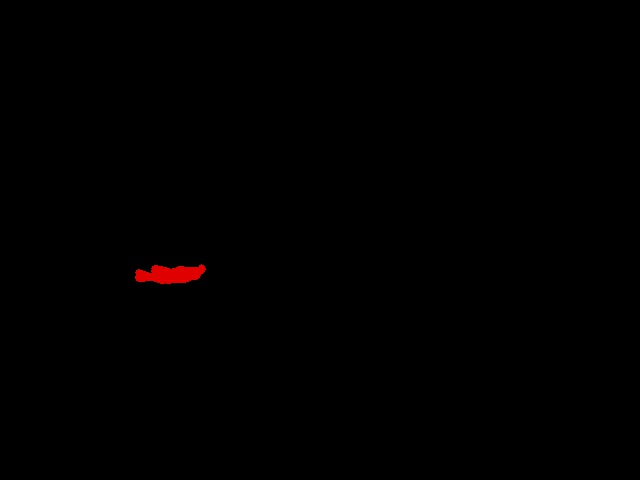
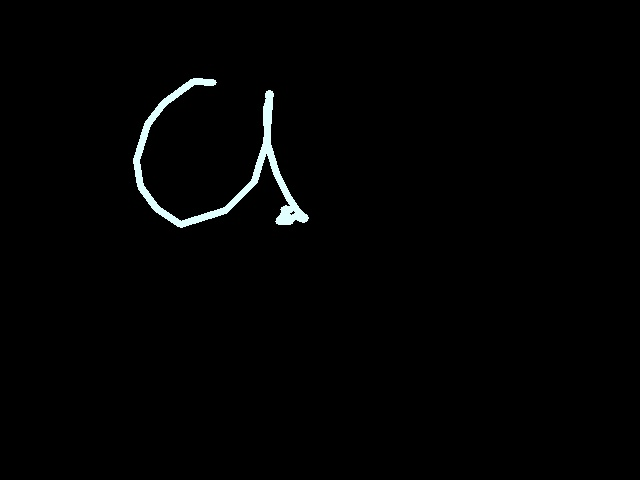
Handwriting recognition

diff --git a/main.py b/main.py
@@ -2,18 +2,47 @@ import numpy as np
 import cv2
 import argparse
 import time
+import pytesseract
 import threading
 from collections import deque
+from PIL import Image
+
+pytesseract.pytesseract.tesseract_cmd = 'C:/Program Files (x86)/Tesseract-OCR/tesseract'
+tessdata_dir_config = '--tessdata-dir "C:/Program Files (x86)/Tesseract-OCR/tessdata" --psm 10  --oem 2 '
+kernel = np.ones((1, 1), np.uint8)
+busy = False
+characters = "abcdefghijklmnopqrstuvwxyzABCDEFGHIJKLMNOPQRSTUVWXYZ0123456789"
+handwriting = cv2.imread("media/temp.jpg")
 
 def read_handwriting():
-    #media/tempjpg
+    busy = False
+    while True:
+        output = ''
+        if busy == False:
+            busy = True
+            handwriting = cv2.imread("media/temp.jpg")
+            busy = False
 
-lastTime = time.time()
+        handwriting = cv2.cvtColor(handwriting, cv2.COLOR_BGR2GRAY)
+        handwriting = cv2.dilate(handwriting, kernel, iterations=1)
+        handwriting = cv2.erode(handwriting, kernel, iterations=1)
+        arr = Image.fromarray(handwriting)
+        result = pytesseract.image_to_string(arr, config = tessdata_dir_config)
+        for i in range(len(result) - 1):
+            for c in range(len(characters)):
+                if(result[i] == characters[c]):
+                    output += result[i]
+                    break;
+        print(output)
+        time.sleep(0.5)
+
+t = threading.Thread(target=read_handwriting)
+t.daemon = True
+t.start()
 
 cap = cv2.VideoCapture(0)
 
-pts = deque(maxlen = 64)
-
+pts = deque(maxlen = 50)
 lower = (110,50,50)
 upper = (130,255,255)
 
@@ -22,6 +51,7 @@ while True:
     img = cv2.flip(img, 1)
 
     writing = np.zeros(( int( cap.get(4) ), int (cap.get(3) ), 3), np.uint8);
+    writing[:,:] = (0,0,0)
 
     hsv=cv2.cvtColor(img, cv2.COLOR_BGR2HSV) #Convert to HSV
     kernel = np.ones((5,5), np.uint8)
@@ -50,16 +80,13 @@ while True:
         if pts[i-1]is None or pts[i] is None:
             continue
         width = int(np.sqrt(len(pts) / float(i + 1)) * 2.5)
-        cv2.line(img, pts[i-1],pts[i],(0,0,225), width)
-        cv2.line(writing, pts[i-1],pts[i],(0,0,225), 5)
+        cv2.line(img, pts[i-1],pts[i],(0, 0, 225), width)
+        cv2.line(writing, pts[i-1],pts[i],(255, 255, 225), 5)
 
-    currentTime = time.time()
-    if (currentTime-lastTime >= 1.3):
-        lastTime = currentTime
+    if busy == False:
+        busy = True
         cv2.imwrite('media/temp.jpg', writing)
-        t = threading.Thread(target=read_handwriting, name='Reading', args=())
-        t.daemon = True
-        t.start()
+        busy = False
 
     cv2.imshow("Writing", writing)
     cv2.imshow("Mask", mask)

diff --git a/handwriting-test.py b/handwriting-test.py
@@ -1,5 +1,44 @@
-from pytesser3 import *
+import sys
 
-written = Image.open("media/temp.jpg")
-text = image_to_string(written)
-print(text)
+import numpy as np
+import cv2
+
+im = cv2.imread('media/image.jpg')
+im3 = im.copy()
+
+gray = cv2.cvtColor(im,cv2.COLOR_BGR2GRAY)
+blur = cv2.GaussianBlur(gray,(5,5),0)
+thresh = cv2.adaptiveThreshold(blur,255,1,1,11,2)
+
+#################      Now finding Contours         ###################
+
+contours,hierarchy = cv2.findContours(thresh,cv2.RETR_LIST,cv2.CHAIN_APPROX_SIMPLE)
+
+samples =  np.empty((0,100))
+responses = []
+keys = [i for i in range(48,58)]
+
+for cnt in contours:
+    if cv2.contourArea(cnt)>50:
+        [x,y,w,h] = cv2.boundingRect(cnt)
+
+        if  h>28:
+            cv2.rectangle(im,(x,y),(x+w,y+h),(0,0,255),2)
+            roi = thresh[y:y+h,x:x+w]
+            roismall = cv2.resize(roi,(10,10))
+            cv2.imshow('norm',im)
+            key = cv2.waitKey(0)
+
+            if key == 27:  # (escape to quit)
+                sys.exit()
+            elif key in keys:
+                responses.append(int(chr(key)))
+                sample = roismall.reshape((1,100))
+                samples = np.append(samples,sample,0)
+
+responses = np.array(responses,np.float32)
+responses = responses.reshape((responses.size,1))
+print ("training complete")
+
+np.savetxt('generalsamples.data',samples)
+np.savetxt('generalresponses.data',responses)
